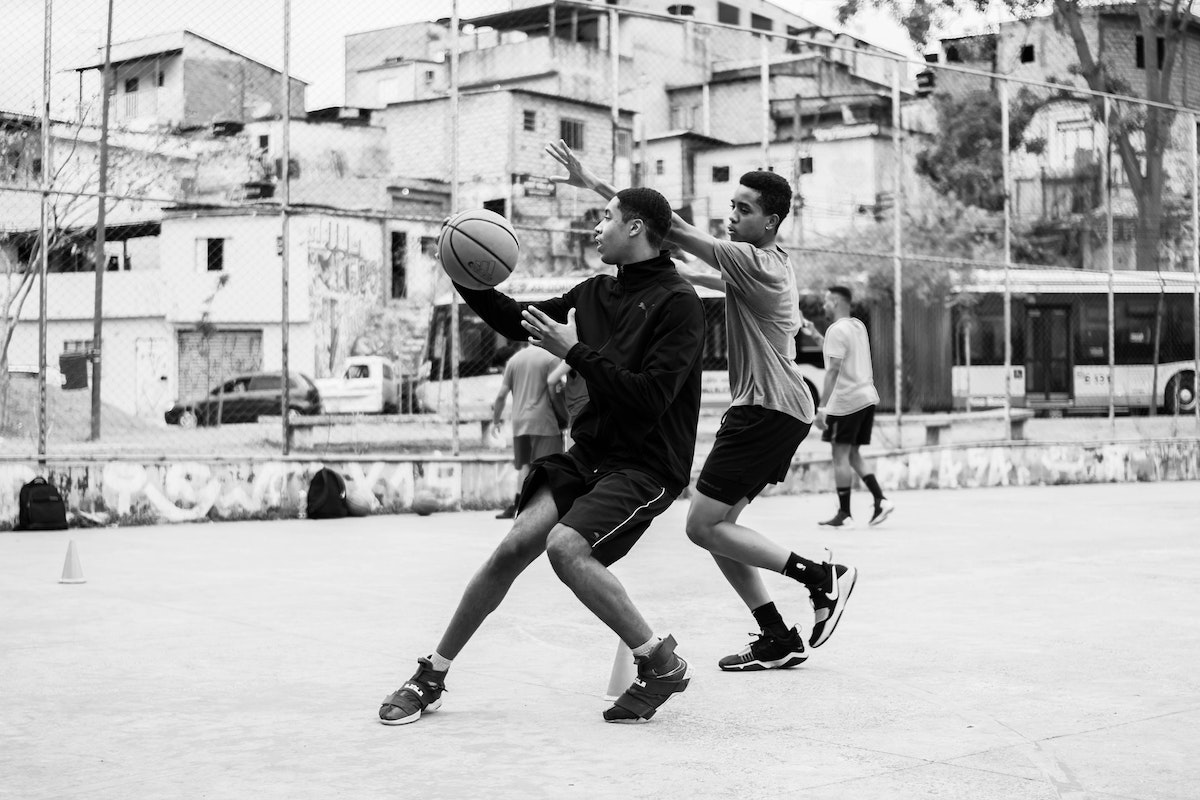
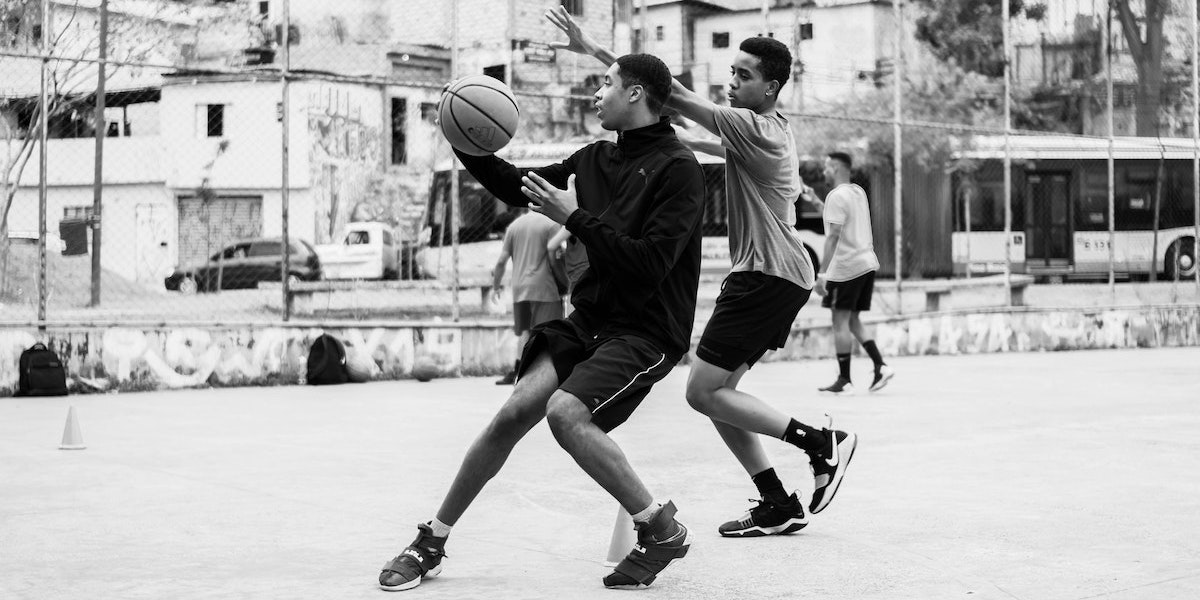
photos size fix

diff --git a/src/components/CaruselComponent.js b/src/components/CaruselComponent.js
@@ -11,17 +11,6 @@ export default class CaruselComponent extends Component {
                 <Carousel.Item>
                     <img
                         className="d-block w-100"
-                        src={ Food }
-                        alt="Food"
-                    />
-                    <Carousel.Caption>
-                        <h3>Food image</h3>
-                        <p>lorem ewrger gwre gerg erg erg erg</p>
-                    </Carousel.Caption>
-                </Carousel.Item>
-                <Carousel.Item>
-                    <img
-                        className="d-block w-100"
                         src={ Basketball }
                         alt="Basketball"
                     />
@@ -38,6 +27,17 @@ export default class CaruselComponent extends Component {
                     />
                     <Carousel.Caption>
                         <h3>Sky image</h3>
+                        <p>lorem ewrger gwre gerg erg erg erg</p>
+                    </Carousel.Caption>
+                </Carousel.Item>
+                <Carousel.Item>
+                    <img
+                        className="d-block w-100"
+                        src={ Food }
+                        alt="Food"
+                    />
+                    <Carousel.Caption>
+                        <h3>Food image</h3>
                         <p>lorem ewrger gwre gerg erg erg erg</p>
                     </Carousel.Caption>
                 </Carousel.Item>

diff --git a/src/index.js b/src/index.js
@@ -1,7 +1,7 @@
 import React from 'react';
 import ReactDOM from 'react-dom';
-import './index.css';
 import App from './App';
+import './index.css';
 import * as serviceWorker from './serviceWorker';
 
 ReactDOM.render(

diff --git a/src/index.css b/src/index.css
@@ -12,10 +12,6 @@ code {
     monospace;
 }
 
-.carousel-inner {
-  height: 650px;
-}
-
 .myClass {
   background-color: burlywood;
   font-size: 2rem;
